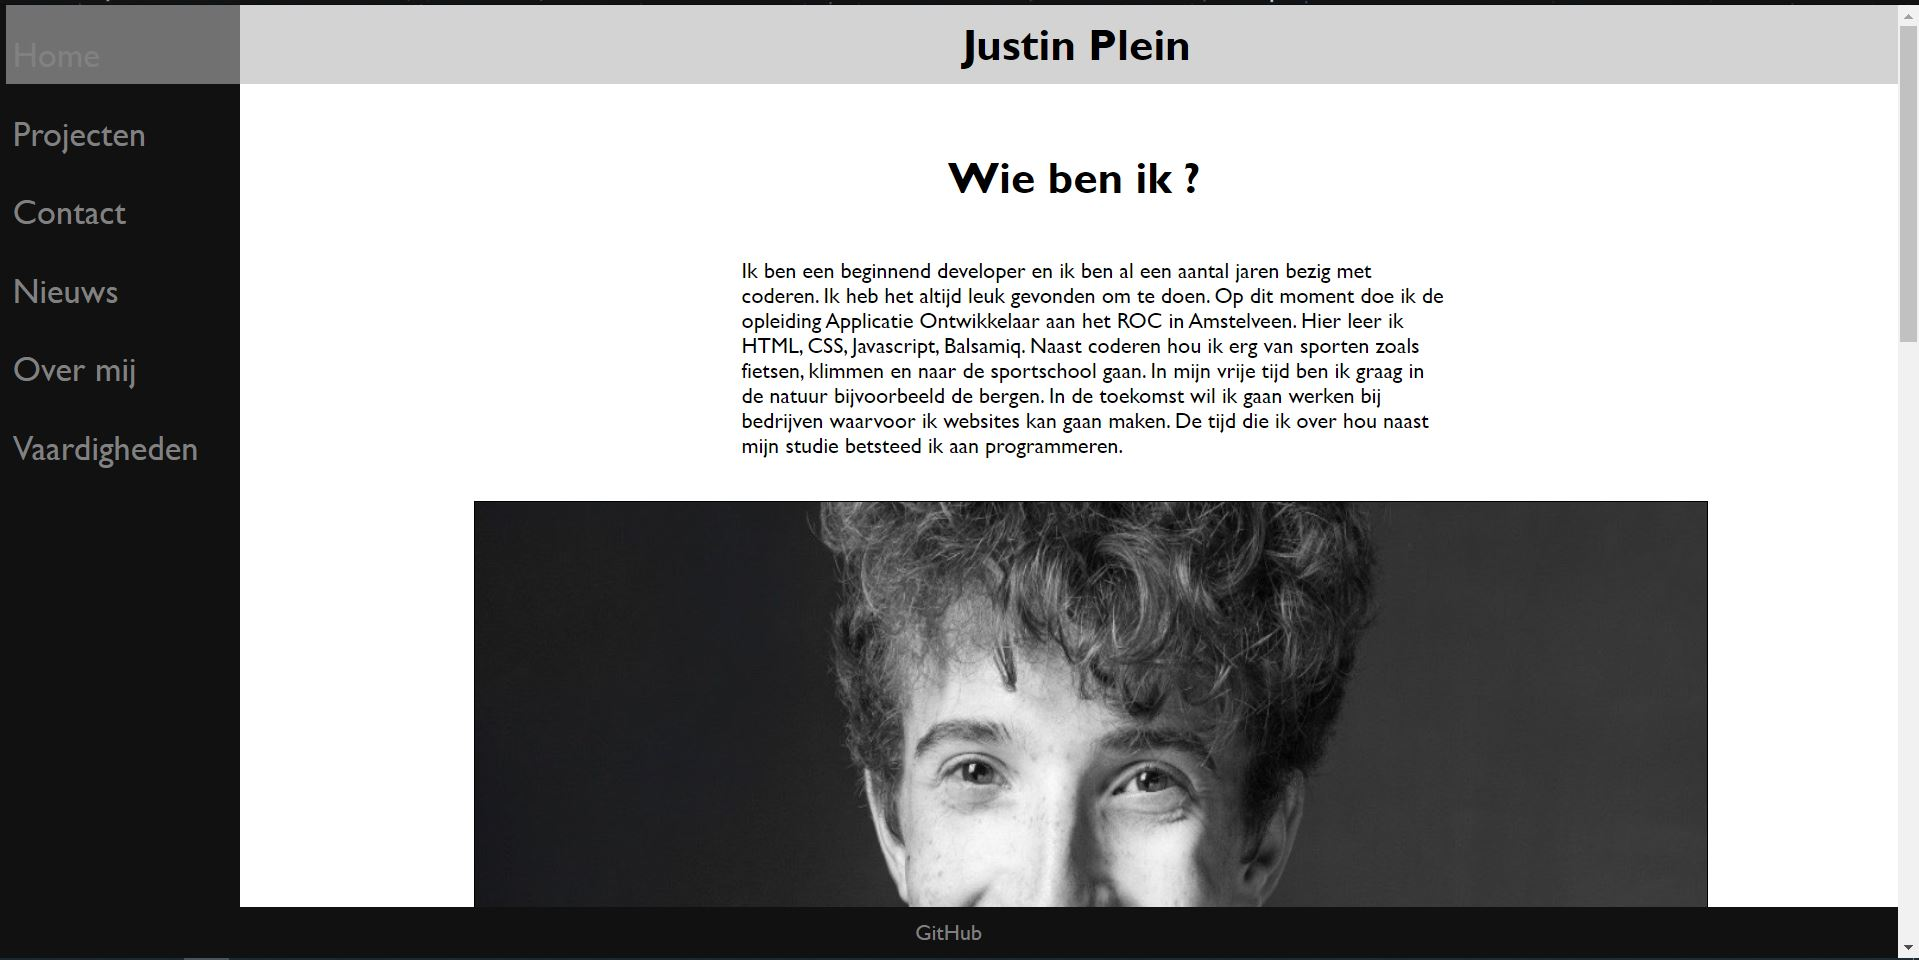
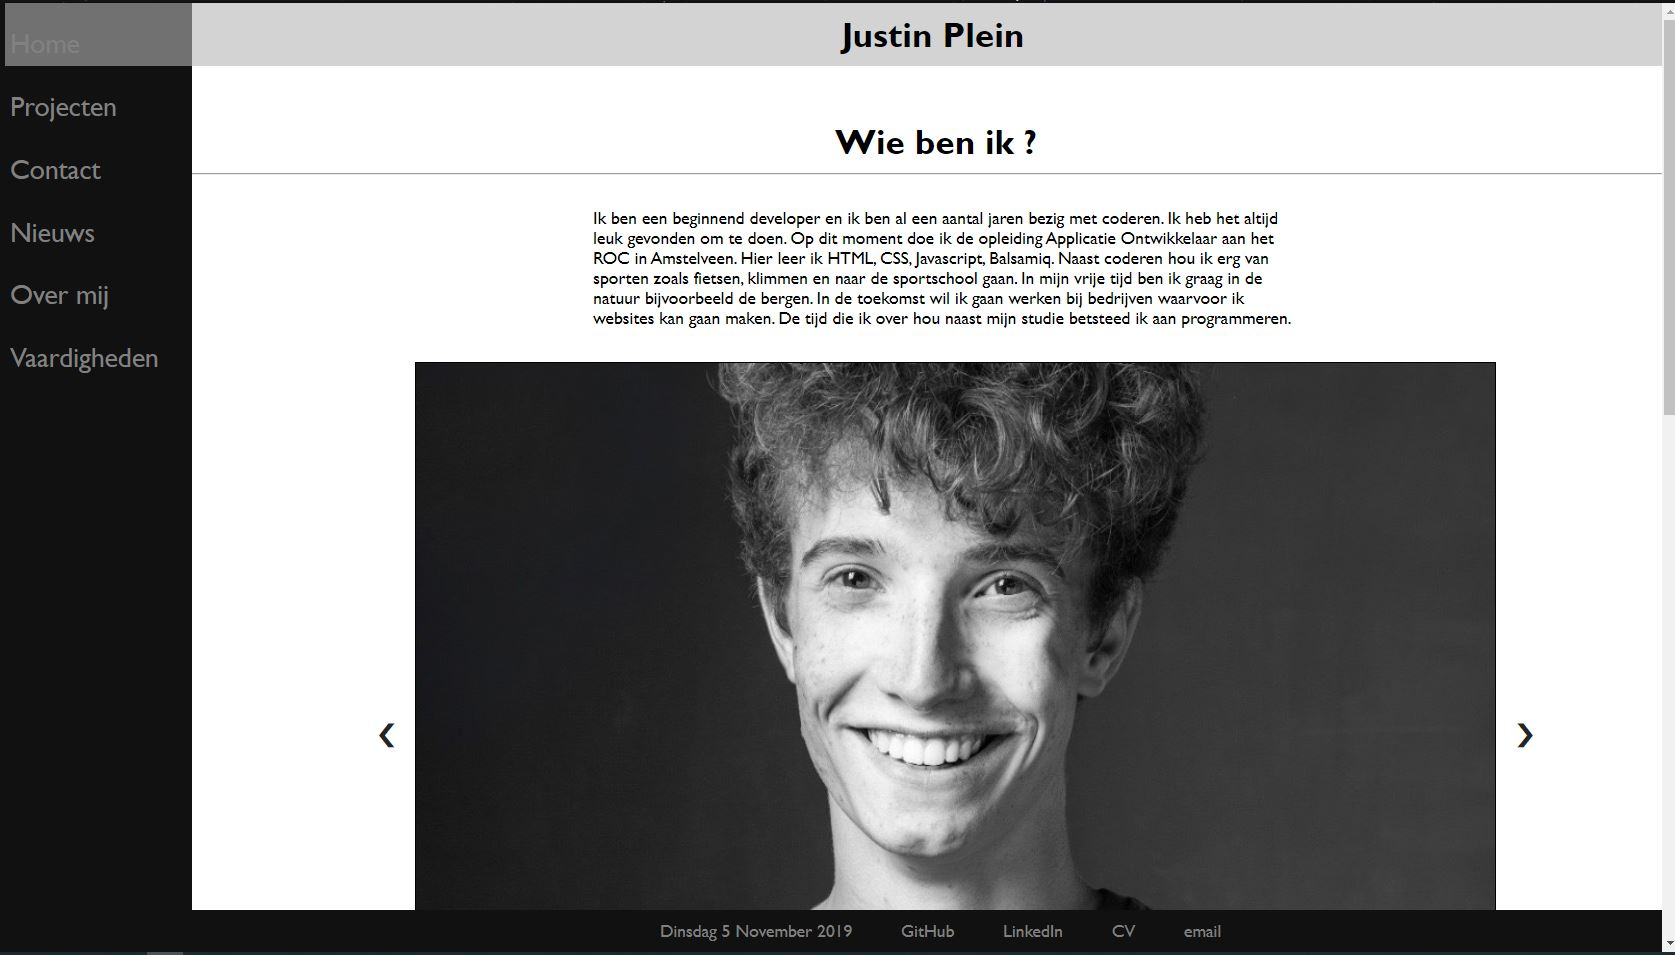
US-11 Vaardigeheden toegevoegd.

diff --git a/vaardigheden.html b/vaardigheden.html
@@ -25,9 +25,89 @@
         </div>
     </header>
     <main>
-        <div class="main-content">
+        <div class="main-content main-content-vaardigheden">
             <div class="main-content-title">
                 <h1>Justin Plein</h1>
+            </div>
+            <div class="main-content-text">
+                <h1 id="title-vaardigheden">Vaardigheden</h1>
+                <hr>
+                <h3 id="title-vaardigheden-title">Word</h3>
+                <div class="status-balk">
+                    <div class="status-balk-erin" id="status1">
+                        <p>40%</p>
+                    </div>
+                </div>
+
+                <h3 id="title-vaardigheden-title">Excel</h3>
+                <div class="status-balk">
+                    <div class="status-balk-erin" id="status2">
+                        <p>40%</p>
+                    </div>
+                </div>
+
+                <h3 id="title-vaardigheden-title">JavaScript</h3>
+                <div class="status-balk">
+                    <div class="status-balk-erin" id="status3">
+                        <p>30%</p>
+                    </div>
+                </div>
+
+                <h3 id="title-vaardigheden-title">HTML</h3>
+                <div class="status-balk">
+                    <div class="status-balk-erin" id="status4">
+                        <p>60%</p>
+                    </div>
+                </div>
+
+                <h3 id="title-vaardigheden-title">CSS</h3>
+                <div class="status-balk">
+                    <div class="status-balk-erin" id="status5">
+                        <p>60%</p>
+                    </div>
+                </div>
+
+                <h3 id="title-vaardigheden-title">PowerPoint</h3>
+                <div class="status-balk">
+                    <div class="status-balk-erin" id="status6">
+                        <p>50%</p>
+                    </div>
+                </div>
+
+                <h3 id="title-vaardigheden-title">Balsamiq</h3>
+                <div class="status-balk">
+                    <div class="status-balk-erin" id="status7">
+                        <p>40%</p>
+                    </div>
+                </div>
+
+                <h3 id="title-vaardigheden-title">Creatief</h3>
+                <div class="status-balk">
+                    <div class="status-balk-erin" id="status8">
+                        <p>70%</p>
+                    </div>
+                </div>
+
+                <h3 id="title-vaardigheden-title">Flexibel</h3>
+                <div class="status-balk">
+                    <div class="status-balk-erin" id="status9">
+                        <p>45%</p>
+                    </div>
+                </div>
+
+                <h3 id="title-vaardigheden-title">Verantwoordelijk</h3>
+                <div class="status-balk">
+                    <div class="status-balk-erin" id="status10">
+                        <p>75%</p>
+                    </div>
+                </div>
+
+                <h3 id="title-vaardigheden-title">Documentatie</h3>
+                <div class="status-balk">
+                    <div class="status-balk-erin" id="status11">
+                        <p>40%</p>
+                    </div>
+                </div>
             </div>
     </main>
     <footer>

diff --git a/CSS/style.css b/CSS/style.css
@@ -10,7 +10,7 @@ body {
 
 .active {
     width: 100%;
-    background-color: lightgrey;
+    color: white;
 }
 
 .nav-bar {
@@ -33,15 +33,73 @@ body {
     color: #818181;
     display: block;
 }
+.nav-bar a:hover {
+    color: #f1f1f1;
+    cursor: pointer;
+}
+.status-balk {
+    width: 400px;
+    height: 25px;
+    background-color: grey;
+    margin-left: 650px;
+    margin-top: 50px;;
+}
+.status-balk-erin {
+    background-color: black;
+    width: 40%;
+    height: 25px;
+    z-index: auto;
+}
+#status1 {
+    width: 40%;
+    height: 25px;
+}
+#status2{
+    width: 40%;
+    height: 25px;
+}
+#status3{
+    width: 30%;
+    height: 25px;
+}
+#status4{
+    width: 60%;
+    height: 25px;
+}
+#status5{
+    width: 60%;
+    height: 25px;
+}
+#status6{
+    width: 50%;
+    height: 25px;
+}
+#status7{
+    width: 40%;
+    height: 25px;
+}
+#status8{
+    width: 70%;
+    height: 25px;
+}
+#status9{
+    width: 45%;
+    height: 25px;
+}
+#status10{
+    width: 75%;
+    height: 25px;
+}
+#status11{
+    width: 40%;
+    height: 25px;
+}
 
 .main-content {
     height: 2000px;
 }
 
-.nav-bar a:hover {
-    color: #f1f1f1;
-    cursor: pointer;
-}
+
 
 .main-content-title {
     width: 100%;
@@ -62,6 +120,9 @@ body {
     margin-left: 810px;
 }
 
+.main-content-vaardigheden {
+    height: 3300px;
+}
 
 .main-content-text h1 {
     margin-left: 740px;
@@ -97,6 +158,9 @@ body {
 
 #title-home {
     margin-left: 750px;
+}
+#title-vaardigheden-title {
+    margin-left: 800px;
 }
 
 #plaatje-portfolio {
